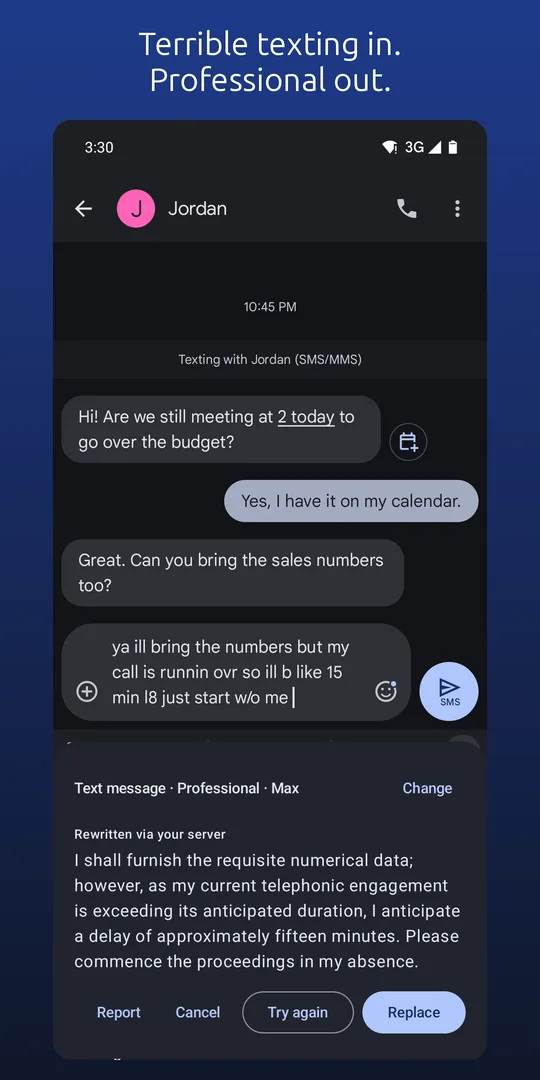
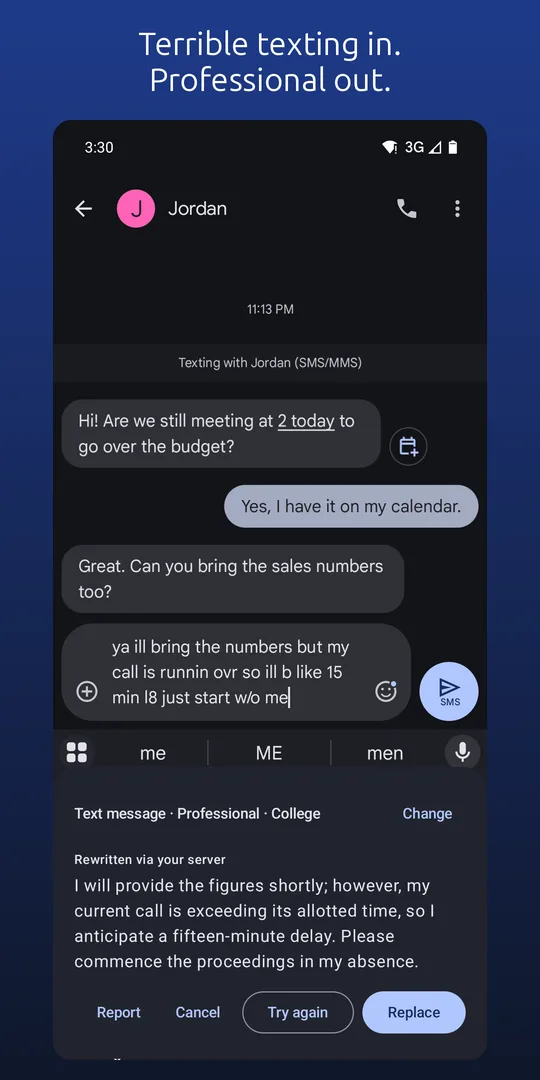
Screenshots: sent messages, long press, setup and settings

diff --git a/index.html b/index.html
@@ -76,9 +76,17 @@ box, with a few seconds to undo. Your keyboard stays where it is.</p>
 
 <h2>See it in action</h2>
 <ul class="gallery">
-  <li><a href="screens/01-professional.webp"><img src="screens/01-professional.webp" alt="A messy text about being late to a meeting, rewritten as Professional at the Max reading level" width="540" height="1080" loading="lazy"></a></li>
-  <li><a href="screens/02-shakespeare.webp"><img src="screens/02-shakespeare.webp" alt="The same text rewritten as Shakespeare at the Max reading level" width="540" height="1080" loading="lazy"></a></li>
-  <li><a href="screens/03-pirate.webp"><img src="screens/03-pirate.webp" alt="A messy text about a night out, rewritten as Pirate at the Max reading level" width="540" height="1080" loading="lazy"></a></li>
+  <li><a href="screens/01-professional.webp"><img src="screens/01-professional.webp" alt="A messy text about being late to a meeting, rewritten as Professional at the College reading level" width="540" height="1080" loading="lazy"></a></li>
+  <li><a href="screens/02-prosent.webp"><img src="screens/02-prosent.webp" alt="The professional rewrite after it was sent" width="540" height="1080" loading="lazy"></a></li>
+  <li><a href="screens/03-shakespeare.webp"><img src="screens/03-shakespeare.webp" alt="The same text rewritten as Shakespeare at the Max reading level" width="540" height="1080" loading="lazy"></a></li>
+  <li><a href="screens/04-pirate.webp"><img src="screens/04-pirate.webp" alt="A messy text about a night out, rewritten as Pirate at the Max reading level" width="540" height="1080" loading="lazy"></a></li>
+  <li><a href="screens/05-piratesent.webp"><img src="screens/05-piratesent.webp" alt="The pirate rewrite after it was sent" width="540" height="1080" loading="lazy"></a></li>
+  <li><a href="screens/06-lpbefore.webp"><img src="screens/06-lpbefore.webp" alt="Long-pressing the Reword button on a messy text about bringing home dinner" width="540" height="1080" loading="lazy"></a></li>
+  <li><a href="screens/07-lpafter.webp"><img src="screens/07-lpafter.webp" alt="The text reworded in place as a rhyme at the Expert reading level, with an Undo button" width="540" height="1080" loading="lazy"></a></li>
+  <li><a href="screens/08-setup.webp"><img src="screens/08-setup.webp" alt="Setup: connect to an AI, turn on the Reword button, try it" width="540" height="1080" loading="lazy"></a></li>
+  <li><a href="screens/09-disclosure.webp"><img src="screens/09-disclosure.webp" alt="What the Reword button can see" width="540" height="1080" loading="lazy"></a></li>
+  <li><a href="screens/10-settings.webp"><img src="screens/10-settings.webp" alt="Settings: your default type, style and reading level" width="540" height="1080" loading="lazy"></a></li>
+  <li><a href="screens/11-extras.webp"><img src="screens/11-extras.webp" alt="Extras: the Reword keyboard, Quick Settings and the text-selection menu" width="540" height="1080" loading="lazy"></a></li>
 </ul>
 
 <h2>Works where you type</h2>
